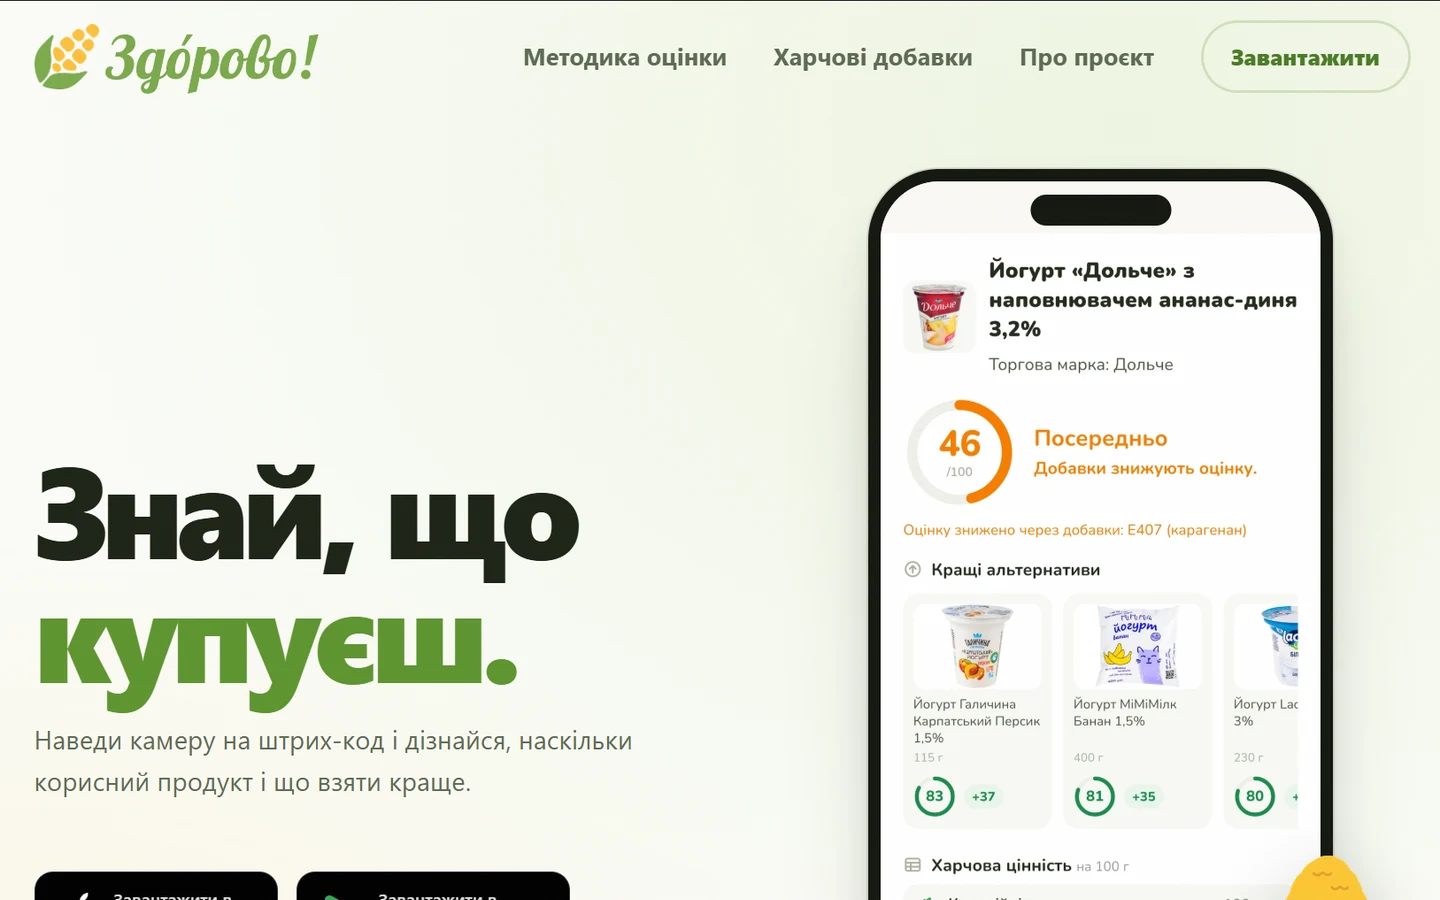
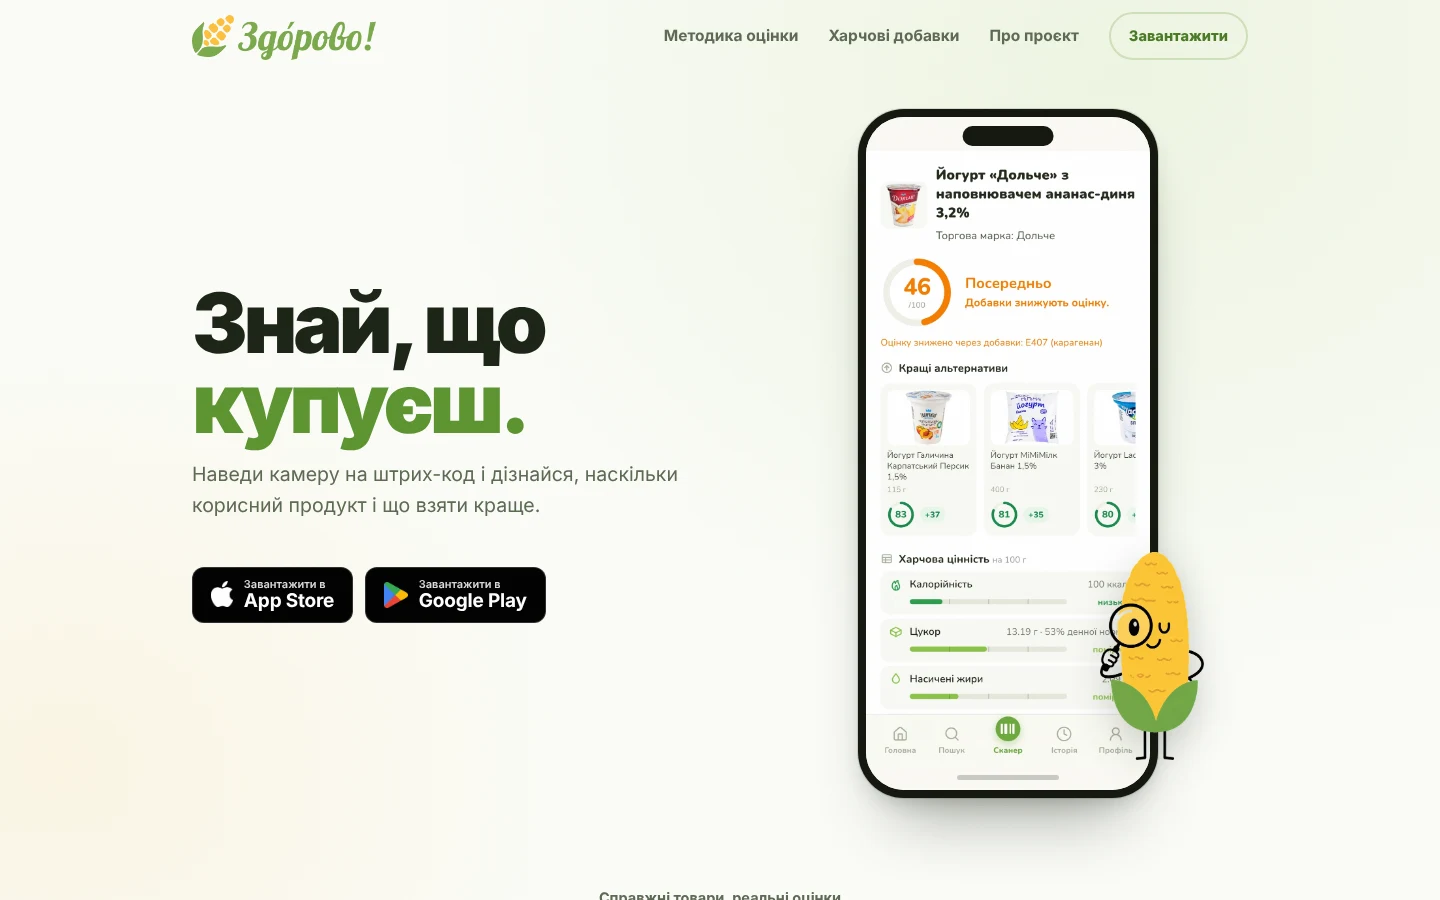
Work: Zdorovo! card scrolls the whole page on hover
Claude-Session: https://claude.ai/code/session_018VTy2AM8Jaz3sxv2iqmmY5

diff --git a/lib/content.en.ts b/lib/content.en.ts
@@ -160,7 +160,7 @@ export const en: Content = {
         tags: ["Design", "Landing page"],
         media: "/cases/zdorovo.webp",
         shots: ["/cases/zdorovo.webp"],
-        full: { src: "/cases/zdorovo-page.webp", w: 1440, h: 1636 }, // first screen only (Maksym's screenshot), the card scrolls to its end on hover
+        full: { src: "/cases/zdorovo-page.webp", w: 1440, h: 6897 },
         photo: "/cases/zdorovo-mockup.webp",
         url: "https://zdorovo.app/",
         status: "Live",

diff --git a/lib/content.ts b/lib/content.ts
@@ -208,7 +208,7 @@ export const WORK = {
       tags: ["Дизайн", "Лендинг"],
       media: "/cases/zdorovo.webp",
       shots: ["/cases/zdorovo.webp"],
-      full: { src: "/cases/zdorovo-page.webp", w: 1440, h: 1636 }, // first screen only (Maksym's screenshot), the card scrolls to its end on hover
+      full: { src: "/cases/zdorovo-page.webp", w: 1440, h: 6897 },
       photo: "/cases/zdorovo-mockup.webp",
       url: "https://zdorovo.app/",
       status: "Запущено",

diff --git a/CLAUDE.md b/CLAUDE.md
@@ -31,7 +31,7 @@ We sell design, website development and admin panels, ideally as one package. **
   - Design = Figma multiplayer scene (three cursors `Mate` with selections `Sel`, two sidebars `LS`/`RS` of `.tool` panels, floating toolbar); code = editor + terminal; CMS = product form + history + toast; launch = checklist (`CHECK`, `DONE`). Entrances `expo`, moves `smooth`, typing `Typed`; state changes tweened. The mock site uses the neutral brand `BUILD.brand` («Your product»), visuals are the inline `Visual` SVG. A grid on the background is allowed here. No camera zooms (tried, looked jerky).
   - **Phones and tablets (< 64rem)**: each stage crops to ONE focus rect (`FOCUS`: artboard, editor + terminal, product form, browser) scaled to the box width (capped at 58% of the viewport height, box height follows the stage), clipped (`StageLayer` + `FitCtx`), pinned under the title, then a note (`BUILD.stages[i].note`, «0N / 04»). There the product is drawn inside each stage's own layer (`ProductAt`), no morph. Desktop untouched.
   - The stage renders only after the client measured it (keeps float-heavy inline styles out of SSR: no hydration mismatch) AND the visitor showed signs of life (pointer / touch / wheel / scroll / key) or the box is already on screen: the heavy stages stay out of the initial load (`StageBox`, `awake`). Reduced motion: final frame at once.
-- **Work** (`Work.tsx`): 4 case cards (1 col, 2 from md, 4 from xl), variant «B» picked by Maksym (Nov 2026): one `.card` (radius 24, overflow hidden); on top a 16:10 frame edge to edge (no inner frame, no browser bar, no type pill) showing `full` = ONE tall 1440-wide image `public/cases/*-page.webp` (the sharp 1440 × 900 first-screen shot on top, then the rest of the page from the old 720-wide stitch, upscaled; Avtoban's first screen is `avtoban-hero.webp`, its white strip cut off), so at rest the frame shows exactly the first screen; then name + kind with a 44px round arrow, the one-line `short` text, a hairline and the tags. The whole card is the button. Hover (fine pointer): that same image scrolls down smoothly inside the frame (`.work-scroll`, `translateY(calc(100cqh - 100%))`, frame is a size container, `--dur`). Never swap or cross-fade two images on hover (rejected: it jerked). Never zoom or crop the resting shot (rejected: «дуже обрізане, низька якість»). Click opens the case `<dialog>`: on top the case `photo` (Nov 2026, Maksym's laptop-in-setting mockups `public/cases/*-mockup.webp`, `object-cover`), or the old `DeviceShot` monitor when `photo` is null. `full: null` → static cover. The 4th case is **Здорово!** (zdorovo.app, replaced Krendel in Nov 2026, asked): portrait phone-in-supermarket photo cropped to 2:1 for the dialog (`zdorovo-mockup.webp`) and to 16:10 as the card cover (`zdorovo.webp`); `full` = `zdorovo-page.webp` (his first-screen screenshot only, 1440 × 1636; swap for a full-page shot when he has one); what he did on it and the term are not known (DRAFT `did`, facts show only type / language). Under the cases (asked, Nov 2026, after a niches card and a text block were rejected): **«Стек технологій»** (`sections/Stack.tsx`, copy `WORK.stack`, DRAFT: only tools really used), `mt-24`: `text-headline` title + one-line lead, then one row per group on hairlines (group name `text-title` left 16rem, logo tiles right: 56px tall, `rounded-xl`, hairline, the ORIGINAL full-colour logo (`public/stack/<id>.svg`, taken from devicon; black marks (Vercel) recoloured white; WordPress plain mark in #21759b, Shopify from simple-icons in #95BF47 to read on the dark page), static, no hover effect (asked)). Figma copy of the section: file «MaxArt Digital: сайт» (UfZBxKgsoynOPmfbFQjaLp).
+- **Work** (`Work.tsx`): 4 case cards (1 col, 2 from md, 4 from xl), variant «B» picked by Maksym (Nov 2026): one `.card` (radius 24, overflow hidden); on top a 16:10 frame edge to edge (no inner frame, no browser bar, no type pill) showing `full` = ONE tall 1440-wide image `public/cases/*-page.webp` (the sharp 1440 × 900 first-screen shot on top, then the rest of the page from the old 720-wide stitch, upscaled; Avtoban's first screen is `avtoban-hero.webp`, its white strip cut off), so at rest the frame shows exactly the first screen; then name + kind with a 44px round arrow, the one-line `short` text, a hairline and the tags. The whole card is the button. Hover (fine pointer): that same image scrolls down smoothly inside the frame (`.work-scroll`, `translateY(calc(100cqh - 100%))`, frame is a size container, `--dur`). Never swap or cross-fade two images on hover (rejected: it jerked). Never zoom or crop the resting shot (rejected: «дуже обрізане, низька якість»). Click opens the case `<dialog>`: on top the case `photo` (Nov 2026, Maksym's laptop-in-setting mockups `public/cases/*-mockup.webp`, `object-cover`), or the old `DeviceShot` monitor when `photo` is null. `full: null` → static cover. The 4th case is **Здорово!** (zdorovo.app, replaced Krendel in Nov 2026, asked): portrait phone-in-supermarket photo cropped to 2:1 for the dialog (`zdorovo-mockup.webp`) and to 16:10 as the card cover (`zdorovo.webp`); `full` = `zdorovo-page.webp` (1440-wide full-page shot taken with Playwright after scrolling the page once so the reveal blocks show, header made static; zdorovo.app is on the session network allowlist); what he did on it and the term are not known (DRAFT `did`, facts show only type / language). Under the cases (asked, Nov 2026, after a niches card and a text block were rejected): **«Стек технологій»** (`sections/Stack.tsx`, copy `WORK.stack`, DRAFT: only tools really used), `mt-24`: `text-headline` title + one-line lead, then one row per group on hairlines (group name `text-title` left 16rem, logo tiles right: 56px tall, `rounded-xl`, hairline, the ORIGINAL full-colour logo (`public/stack/<id>.svg`, taken from devicon; black marks (Vercel) recoloured white; WordPress plain mark in #21759b, Shopify from simple-icons in #95BF47 to read on the dark page), static, no hover effect (asked)). Figma copy of the section: file «MaxArt Digital: сайт» (UfZBxKgsoynOPmfbFQjaLp).
 - **Pricing** (`Pricing.tsx`): prices by website type in USD (`SERVICES.plans`): 4 rows on hairlines (icon, name, who it is for, «від $N» + term, «Детальніше» → `PlanDialog`: what is included, price, term, «Обговорити проєкт» that picks the type in the form; no pills in the rows, asked), the hot plan (Лендинг) gets a blue stripe, faint tint, «Рекомендуємо» and the primary button; one line of `extras` under the list.
 - **FinalCta** (`FinalCta.tsx`): title + lead + direct contacts, and the form in one `.card` (two columns from xl, stacked below; centred pair from `wide:`). The form is a **step-by-step request** (Nov 2026, asked: the price quiz that sat under Pricing became the form; copy `SERVICES.quiz`): «Крок N з 5» bars → type of site (the 4 plans + «Інше») → admin panel → support → launch → «Ваш запит» (each answer with «Змінити», free text «Ваші примітки», name + contact, send). The rough price is NOT shown in the form (asked, Nov 2026); it is still computed (plan price / days + `adminPrice` / `supportPrice` = the extras, shop and corporate already include the admin panel) and goes into the email. No auto-advance (asked: a misclick must be changeable): pick, then «Далі» (Enter works too); «Пропустити й написати своїми словами» jumps straight to the last step as «Інше». «Скинути відповіді» (from step 2 on and on the last step) clears the answers and the free text and goes back to the first question; name / contact stay. «Де вам зручніше спілкуватися?» (`CONTACT.channels`: Telegram / Viber / WhatsApp / Email, Telegram default; «Дзвінок» removed (asked)) drives the ONE contact field: its label, placeholder, input type and validation (Telegram = @нік (real username rules, `lib/telegram.ts`; `t.me/…` links accepted and sent as @нік) or phone; the nick is also checked against Telegram itself: `GET /api/tg-check?u=` reads the public t.me page (`tgme_page_title` = exists), debounced 600ms while typing, «Перевіряємо… / знайдено ✓ / такого ніка немає» under the field, a missing nick blocks sending, «can't tell» (Telegram down) lets it through, Viber / WhatsApp = phone with 9 to 15 digits, email = email); the channel goes to the API as `channel` (email subject + contact line). The answers + price + free text go into `message`, the type into `needs`. Keep `adminPrice` / `supportPrice` in step with `extras`. Honeypot field `website`. `POST /api/contact` → Telegram bot and / or Resend in parallel (ok if at least one accepted, 502 if all failed); without any keys it answers 503 and the form points to Telegram / email. After sending, the card shrinks to the short thanks state (the form is display:none, not stacked under it; asked), centred, with a 64px mark (`.done-*` in globals.css): a violet ring draws itself round, fills violet, then the white check is drawn left to right (clip-path, no stroke-dasharray).
 - **Scrolling is native** (Oct 2026: the section-by-section wheel snap was removed, it felt jerky and low-fps). Do not add scroll hijacking, smooth-scroll libraries or CSS scroll-snap.
